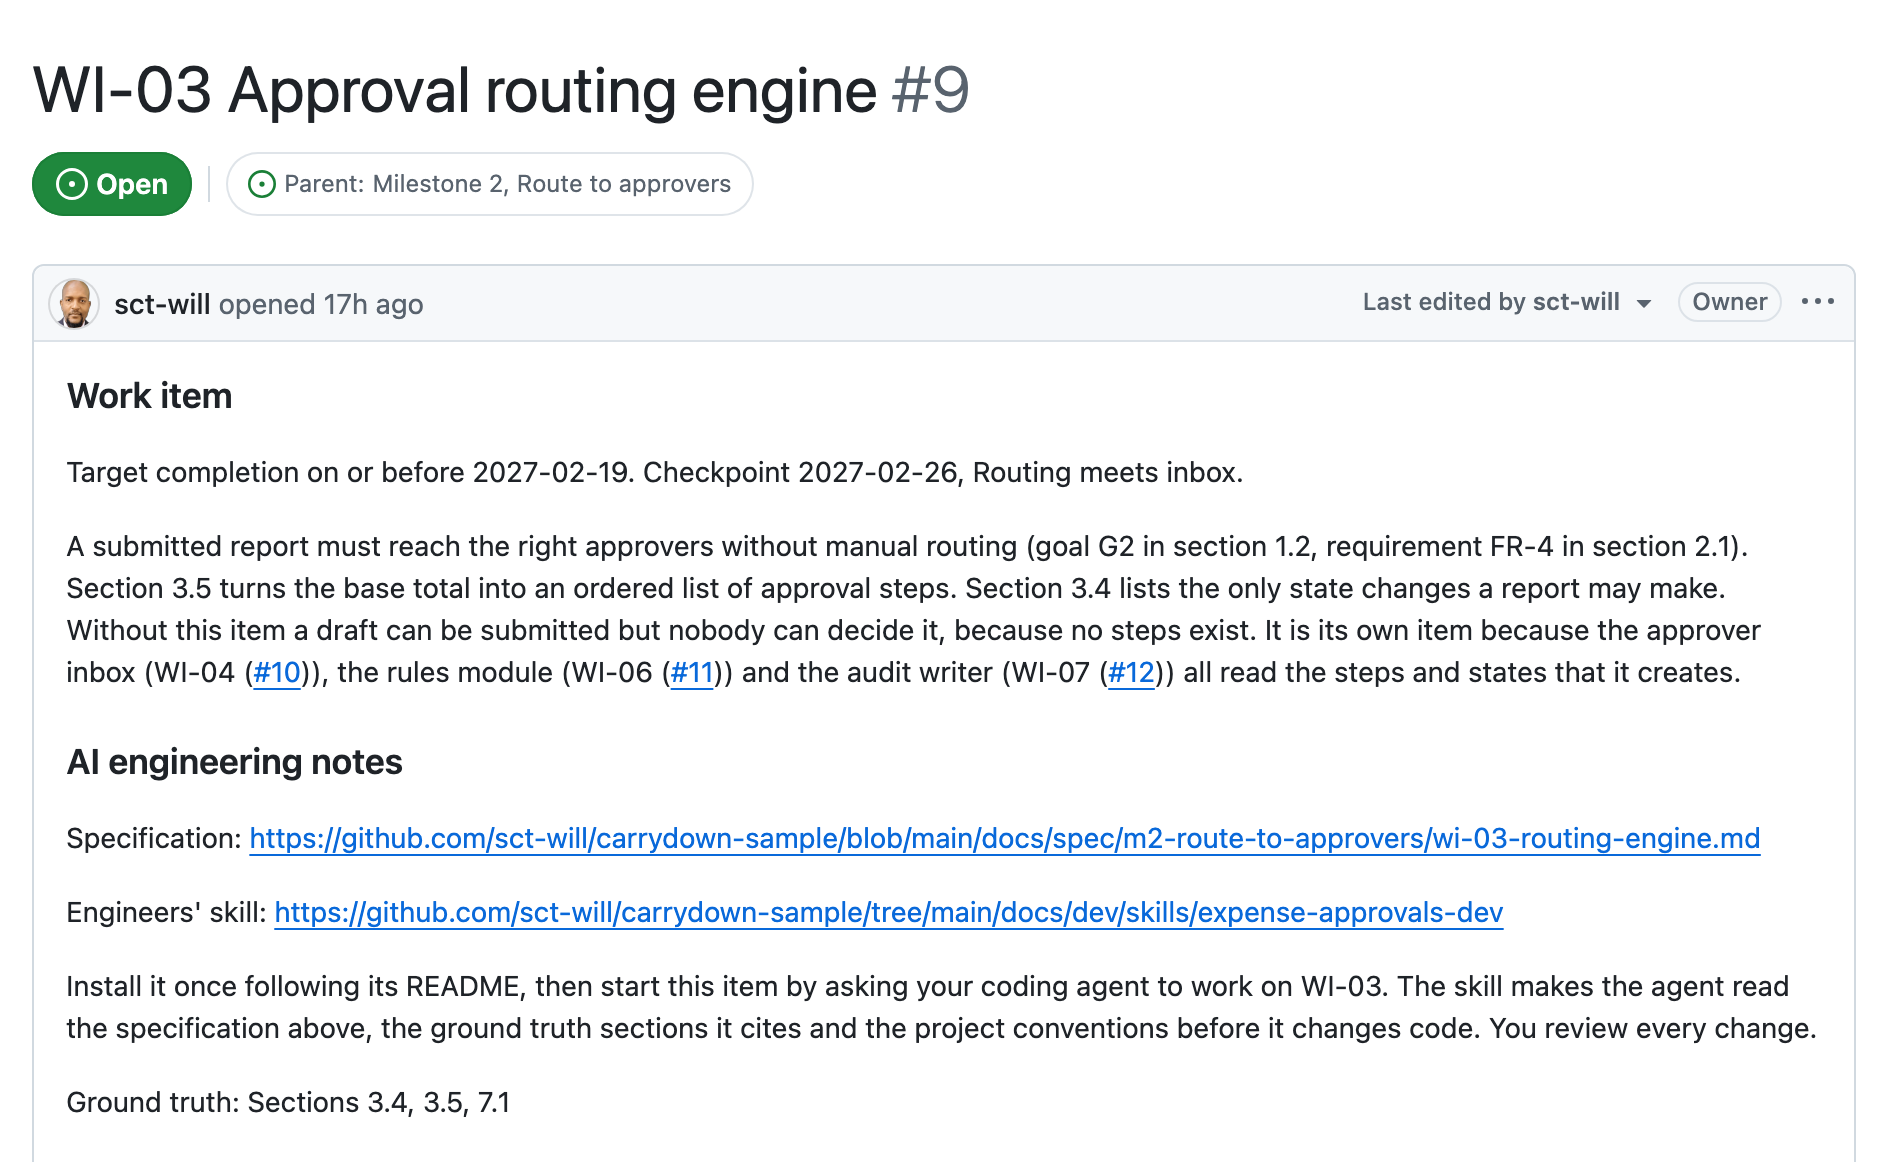
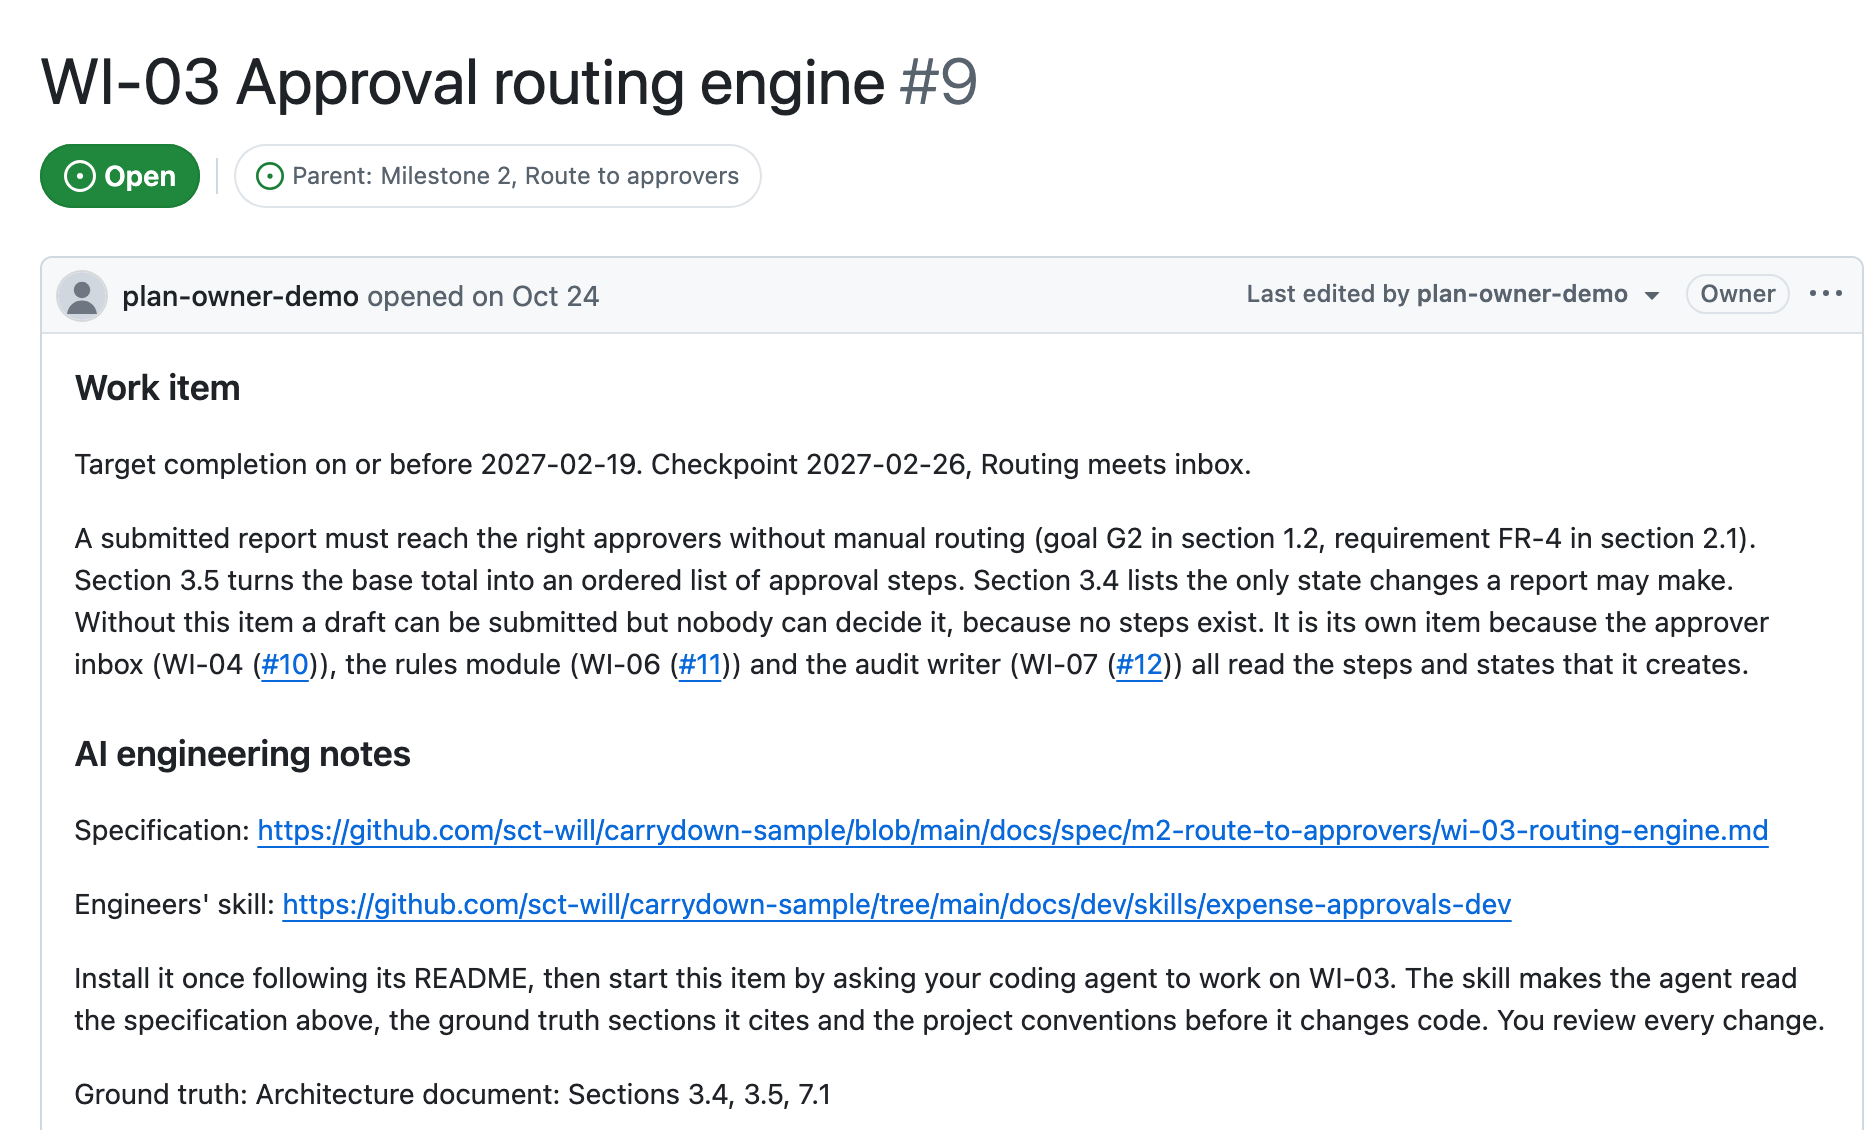
Retake the issue screenshot from the republished sample with the author anonymized

diff --git a/CHANGELOG.md b/CHANGELOG.md
@@ -6,7 +6,7 @@ All notable changes to this project are written here. The format follows Keep a 
 
 ### Updates
 
-- **The public documentation says only what is true.** The README diagram is redrawn for the confidentiality controls: four stages, your documents wherever they are, the approved source excerpts passing through your approval on their way to each coding agent, and a return arrow for the reviewed update path. The help site publishes an explicit list of pages and no longer publishes the maintainer notes or the recorded run. The definition page cites `https://carriedcontext.dev/definition/` and no longer promises a DOI. The accessibility statement in every language says which animations and transitions the site has, what reduced motion turns off and what remains, and names the documentation pages' real limits: they are not translated yet, and their raster images do not follow the dark theme. The site no longer promises that nothing drifts. It says the approach helps keep specifications and coding agents aligned as the project changes, that a coding agent sees an update at the next work item check after the engineer has updated their project files, and that milestone reviews prompt the plan owner to report changes. The sample's "Make it yours" tells you to give your agent the paths to your documents where they are, instead of copying them into a project. The custom domain notes for maintainers describe the configuration in place and how to check it.
+- **The public documentation says only what is true.** The README diagram is redrawn for the confidentiality controls: four stages, your documents wherever they are, the approved source excerpts passing through your approval on their way to each coding agent, and a return arrow for the reviewed update path. The issue screenshot in the README is retaken from the republished sample, with the author details anonymized and the caption saying so. The help site publishes an explicit list of pages and no longer publishes the maintainer notes or the recorded run. The definition page cites `https://carriedcontext.dev/definition/` and no longer promises a DOI. The accessibility statement in every language says which animations and transitions the site has, what reduced motion turns off and what remains, and names the documentation pages' real limits: they are not translated yet, and their raster images do not follow the dark theme. The site no longer promises that nothing drifts. It says the approach helps keep specifications and coding agents aligned as the project changes, that a coding agent sees an update at the next work item check after the engineer has updated their project files, and that milestone reviews prompt the plan owner to report changes. The sample's "Make it yours" tells you to give your agent the paths to your documents where they are, instead of copying them into a project. The custom domain notes for maintainers describe the configuration in place and how to check it.
 - **The checker requires a citation for every named rule.** `check_specs.py` now fails a work item (obligation-uncited) when the Contract or the Acceptance criteria of a specification name a rule, such as GOV-2.6, whose section the item does not cite. The identifier resolves to the section whose heading holds its base (GOV-2), and that section, a parent of it or the whole document must be in the plan's source_refs or the References section. Code blocks and the other sections are not read, and an identifier that no source heading holds, such as FR-1, is not checked. In the released view the item's approved context must hold an obligation whose heading names the rule, when some bundle of the project has one. Release preparation stops on the same rule with the new reason code `obligation-uncited`.
 - **The update check reports a missing citation.** `reconcile.py check` now reports `citation-missing` when a specification patch is filed under a changed section that its item does not cite, because the approved context would then omit that section. A citation of a parent section or of the whole document counts, a removed section is skipped, and the blocks named with `--also-block` are checked too. The section in the item's `sections` in the working plan, or a References line of its specification, clears it. `apply` stops on the finding. A plan patch that cannot be read is now reported as `patch-plan-invalid`.
 - **The renderer records the document version.** `render_ground_truth.py --version 0.4` now writes `version: "0.4"` into the source entry of the plan in the same write as the digests, so the accepted checkpoint and the compiled approved context carry the version of the rendering. Without `--version` the header still says unversioned, the plan keeps its version and a note says so. A dry run and a released plan are not written, as before.

diff --git a/README.md b/README.md
@@ -100,9 +100,9 @@ Start with [the sample project board](https://github.com/users/sct-will/projects
 - **How related work connects.** The ledger export depends on [the audit log](sample/expense-approvals/docs/spec/m3-enforce-policy/wi-07-audit-log.md). Its specification says why and names the shared behavior. Both specifications quote the same logging rule, word for word, from the same section of the source. If the rule changes, tell the agent you plan with: “This changed: [describe the change].” It proposes updates to the work that may be affected and keeps engineer corrections that still fit. You review the changes before publication.
 - **What reaches the coding agent.** Read [the generated skill](sample/expense-approvals/docs/dev/skills/expense-approvals-dev/SKILL.md). It directs the coding agent to check its approved inputs, then read the approved source excerpts, the full specification and the project conventions before planning the code. If the approved inputs have changed, it directs the agent to reassess its plan.
 
-[![Issue 9 in the sample repository, WI-03 Approval routing engine, as GitHub renders it. Open, parent Milestone 2, Route to approvers. The body gives the target completion date, the checkpoint, why the item exists, then the AI engineering notes: a link to the specification, a link to the engineers' skill, the instruction to install it once and ask your coding agent to work on WI-03, and the ground truth sections 3.4, 3.5 and 7.1.](docs/images/issue-9.png)](https://github.com/sct-will/carrydown-sample/issues/9)
+[![Issue 9 in the sample repository, WI-03 Approval routing engine, as GitHub renders it. Open, parent Milestone 2, Route to approvers. The body gives the target completion date, the checkpoint, why the item exists, then the AI engineering notes: a link to the specification, a link to the engineers' skill, the instruction to install it once and ask your coding agent to work on WI-03, and the ground truth line naming the architecture document's sections 3.4, 3.5 and 7.1. Author details anonymized; issue content unchanged.](docs/images/issue-9.png)](https://github.com/sct-will/carrydown-sample/issues/9)
 
-*Issue 9 as GitHub renders it, and [the specification it links to](https://github.com/sct-will/carrydown-sample/blob/main/docs/spec/m2-route-to-approvers/wi-03-routing-engine.md).*
+*Issue 9 as GitHub renders it, and [the specification it links to](https://github.com/sct-will/carrydown-sample/blob/main/docs/spec/m2-route-to-approvers/wi-03-routing-engine.md). Author details anonymized; issue content unchanged.*
 
 Everything the two skills made is public in [carrydown-sample](https://github.com/sct-will/carrydown-sample), and a copy sits in [`sample/expense-approvals/`](sample/expense-approvals/) for the self test. With a local copy of this repository you can also run the sample's read-only preview, which changes no file and needs no token; [the sample's own page](sample/expense-approvals/README.md#run-it) shows the command and what it prints.
 

diff --git a/docs/recording-storyboard.md b/docs/recording-storyboard.md
@@ -47,12 +47,12 @@ The sample is fictional: the company, the people and the dates are invented, and
 
 ## Images and captions already in the repository
 
-The pictures below show the fictional sample. None shows a path or a staffing record. One shows the plan owner's own public account name, noted in the table. The README diagram was redrawn after the confidentiality controls. The other pictures were made before them, and each is kept until it is redrawn or retaken.
+The pictures below show the fictional sample. None shows a path, a staffing record or a real account name. The README diagram was redrawn and the issue screenshot retaken after the confidentiality controls. The other pictures were made before them and are kept until they are redrawn or retaken.
 
 | Image | Where it appears | Status |
 | --- | --- | --- |
 | `docs/images/handoff.png` and `handoff.svg` | The README "How it works" section | Current. Redrawn on 2026-11-22. It shows four stages: your documents and team constraints, the agent's draft, your review and approval, and each coding agent's approved handoff. The approved source excerpts pass through your approval, and a return arrow shows the reviewed update path. It shows no path or staffing record. |
 | `docs/images/second-pass-review.png` and `.svg` | `docs/method.md` | Current. It shows the review of the plan and does not mention where sources live. |
-| `docs/images/issue-9.png` | The README sample section | Legacy pending replacement. It is a screenshot of the public sample repository from before the release layout. It shows the plan owner's own GitHub account name and picture as the issue author, which is the real account that published the sample and not a fictional person. Its text says the skill makes the agent read "the ground truth sections it cites", where the current text says the approved context. Retake it after the sample repository is republished from the current sample. |
+| `docs/images/issue-9.png` | The README sample section | Current. Retaken on 2026-11-23 from the live issue after the sample repository was published again from the current release. The author's avatar and login are replaced by a generic avatar and an invented plan owner login in the rendered page before the capture; the issue content is unchanged, and the README caption says so. It shows no path or staffing record. |
 | `docs/images/board.png` | Nowhere since November 2026, when the README sample section was shortened to one picture; kept for the recording | Current. It shows tracks, dates and checkpoints, and no name or login. |
 | `docs/images/social-preview.png` | The repository social preview | Current. It carries the tagline only. |

diff --git a/sample/expense-approvals/README.md b/sample/expense-approvals/README.md
@@ -103,7 +103,7 @@ python3 scripts/render_ground_truth.py sample/expense-approvals/ground-truth/arc
 
 ## On GitHub
 
-The issues and the public board for this plan are in the sample repository: [its issues](https://github.com/sct-will/carrydown-sample/issues) and [the public board](https://github.com/users/sct-will/projects/2). Start with the board's Board view. The Roadmap view shows bars only after its date fields are chosen by hand once (Complete by, and Checkpoint for markers), because the script does not set them yet. That click is in the list `github_project.py` prints at the end of every run. The sample repository was published before the release layout existed, so its issues and files predate the approved contexts and the receipt until it is published again from this folder.
+The issues and the public board for this plan are in the sample repository: [its issues](https://github.com/sct-will/carrydown-sample/issues) and [the public board](https://github.com/users/sct-will/projects/2). Start with the board's Board view. The Roadmap view shows bars only after its date fields are chosen by hand once (Complete by, and Checkpoint for markers), because the script does not set them yet. That click is in the list `github_project.py` prints at the end of every run.
 
 ## Make it yours
 
